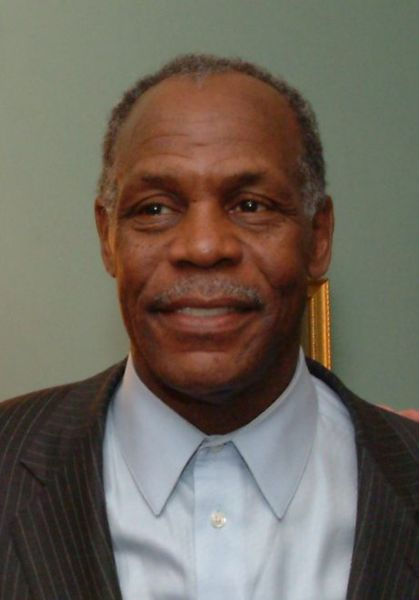
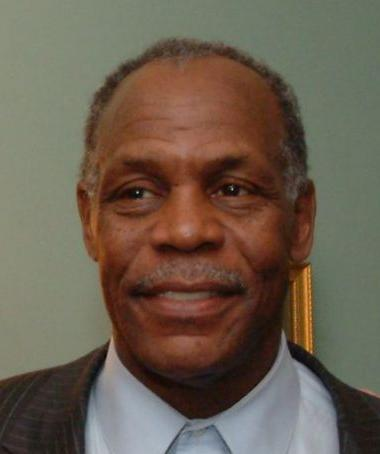
Ajout photo de D. Glover

diff --git a/papy-fait-du-scala/index.html b/papy-fait-du-scala/index.html
@@ -274,7 +274,7 @@ list filter byE
         <li>Extraordinaire API de collections, très riche</li>
         <li>Exceptions non vérifiées uniquement</li>
         <li>Paramètres optionnels ou nommés</li>
-        <li>Variable ou classes implicites</li>
+        <li>Variables ou classes implicites</li>
         <li>Evaluation différée (<em>lazy</em>)</li>
         <li>Surcharge d'opérateur</li>
         <li>Trait = interface + code</li>
@@ -517,12 +517,18 @@ w.toLowerCase.groupBy(char => char).toList.sortBy {
 
   -->
 
-  <section id="enrichissement">
-    <h1>$$ Enrichissement $$</h1>
+  <section id="bilan">
+    <h1>$$ Bilan $$</h1>
   </section>
 
   <section id="trop-vieux" class="no-toc" >
-    <blockquote><i class="icon-quote-left icon-4x pull-left"></i>Trop vieux pour ces conneries !</blockquote>
+    <ul class="cotecote">
+      <li style="width: 35%;"><img src="images/419px-Danny_Glover_portrait,_January_14,_2008.jpg" style="max-width: 100%;"></li>
+      <li style="width: 65%;">
+        <blockquote><i class="icon-quote-left icon-2x pull-left"></i>Je suis trop vieux pour ces co***ries !</blockquote>
+      </li>
+    </ul> 
+    
   </section>
 
   <section id="ouverture" class="no-toc">

diff --git a/css/breizhcamp2013.css b/css/breizhcamp2013.css
@@ -53,6 +53,7 @@ h1 {
   display: table-cell;
   vertical-align: middle;
   text-align: center;
+  font-size: 2em;
 }
 
 #damien-lecan aside {
